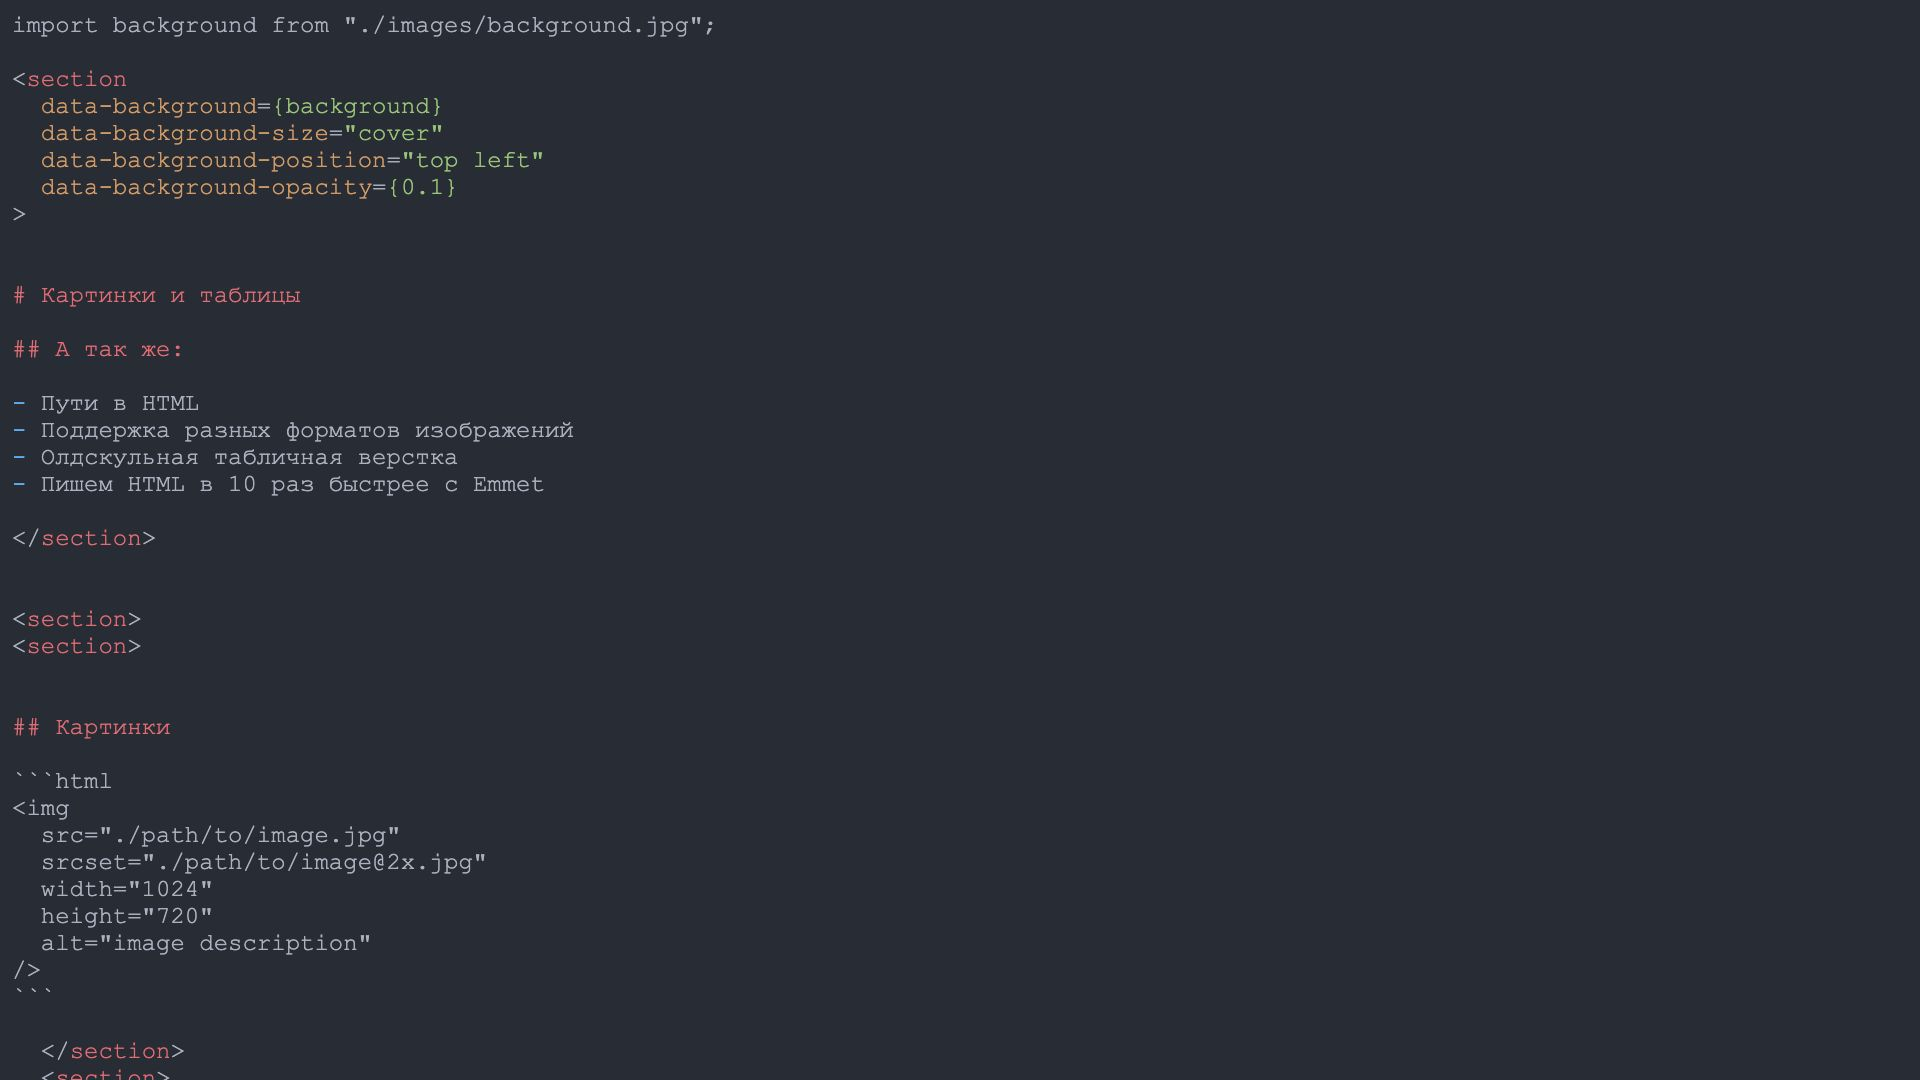
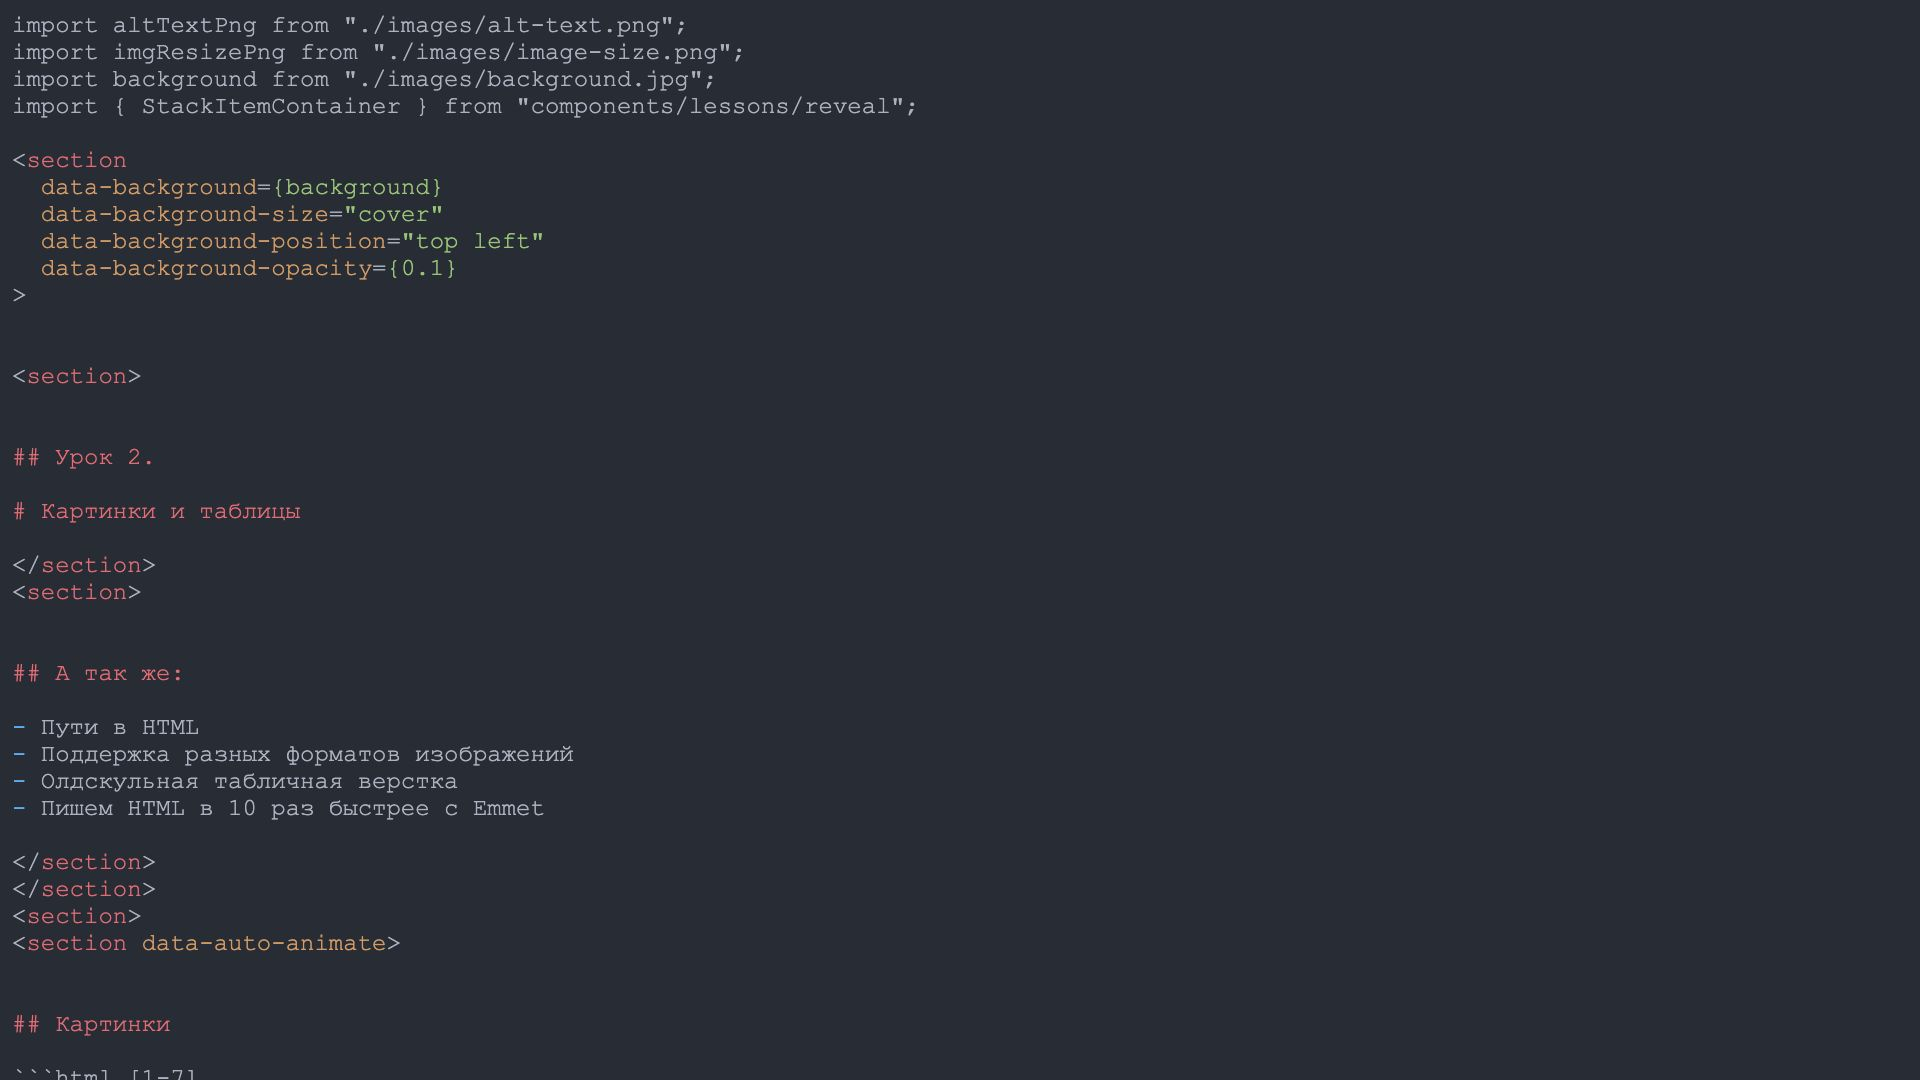
add lifehack get image size

Changed region(s): [[0.0, 0.0, 0.4688, 0.8861], [0.0, 0.9472, 0.0938, 1.0], [0.25, 0.7333, 0.2812, 0.7639]]

diff --git a/gatsby-config.js b/gatsby-config.js
@@ -35,7 +35,13 @@ module.exports = {
   plugins: [
     "gatsby-transformer-sharp",
     `gatsby-plugin-sharp`,
-    `gatsby-remark-images`,
+    {
+      resolve: `gatsby-remark-images`,
+      options: {
+        maxWidth: 1200,
+        backgroundColor: "transparent",
+      },
+    },
     `gatsby-plugin-split-css`,
     {
       resolve: `gatsby-plugin-mdx`,
@@ -48,6 +54,7 @@ module.exports = {
             resolve: `gatsby-remark-images`,
             options: {
               maxWidth: 1200,
+              backgroundColor: "transparent",
             },
           },
         ],
@@ -90,7 +97,7 @@ module.exports = {
     //     name: title,
     //     short_name: "hipstacoding.school",
     //     start_url: "/",
-    //     background_color: "#292D34",
+    //     background_color: "#282c34",
     //     display: "minimal-ui",
     //     icon: "src/assets/images/hipsta-logo-favicon.png", // This path is relative to the root of  the site.
     //     theme_color_in_head: false,

diff --git a/src/components/lessons/mdx/index.js b/src/components/lessons/mdx/index.js
@@ -1,5 +1,23 @@
+import copyWithout from "../../../lib/utils/object";
 import MdxWrapper from "./MdxWrapper";
+
+const HIGHLIGHT_REGEX = /^\[(.+)\]$/;
+
+const Code = props => {
+  const mdLineNumbers = Object.keys(props).find(k => HIGHLIGHT_REGEX.test(k));
+  if (mdLineNumbers) {
+    const htmlLineNumbers = mdLineNumbers.replace(HIGHLIGHT_REGEX, "$1");
+    const propsCopy = copyWithout(props, ["metastring", mdLineNumbers]);
+    return <code {...propsCopy} data-line-numbers={htmlLineNumbers} />;
+  }
+
+  return <code {...props} />;
+};
+
+const A = props => <a {...props} target="blank" />;
 
 export default {
   wrapper: MdxWrapper,
+  code: Code,
+  a: A,
 };

diff --git a/src/components/lessons/reveal/index.js b/src/components/lessons/reveal/index.js
@@ -21,6 +21,14 @@ export const ImgIcon = styled.img`
   margin: 0 5px !important;
 `;
 
+export const StackItemContainer = styled.div`
+  background-color: ${({ theme }) => theme.colors.backgroundPrimary};
+`;
+
+export const Stack = styled.div`
+  position: relative;
+`
+
 export const HorizontalCodeEditor = ({ source }) => {
   const [code, setCode] = useState(source);
 

diff --git a/src/lib/theme.js b/src/lib/theme.js
@@ -2,7 +2,7 @@ import { css } from "styled-components";
 
 export default {
   colors: {
-    backgroundPrimary: "#292D34",
+    backgroundPrimary: "#282c34",
     backgroundSecondary: "#383D46",
     textColor: "#F2F7FD",
     textSecondaryColor: "#C57BDD",

diff --git a/src/lib/utils/object.js b/src/lib/utils/object.js
@@ -1,0 +1,7 @@
+export default function copyWithout(src, omit = []) {
+  return Object.keys(src).reduce((storage, key) => {
+    if (omit.includes(key)) return storage;
+    storage[key] = src[key];
+    return storage;
+  }, {});
+}

diff --git a/src/lib/reveal-theme/source/hipsta.scss b/src/lib/reveal-theme/source/hipsta.scss
@@ -58,4 +58,13 @@ $heading4Size: 1.0em;
 
 .reveal code {
   font-family: 'Consolas', monospace;
+  color: #e06c75;
+}
+
+.reveal ol,
+.reveal ul {
+	display: inline-block;
+
+	text-align: left;
+	margin: 1em 0 1em 1em;
 }
